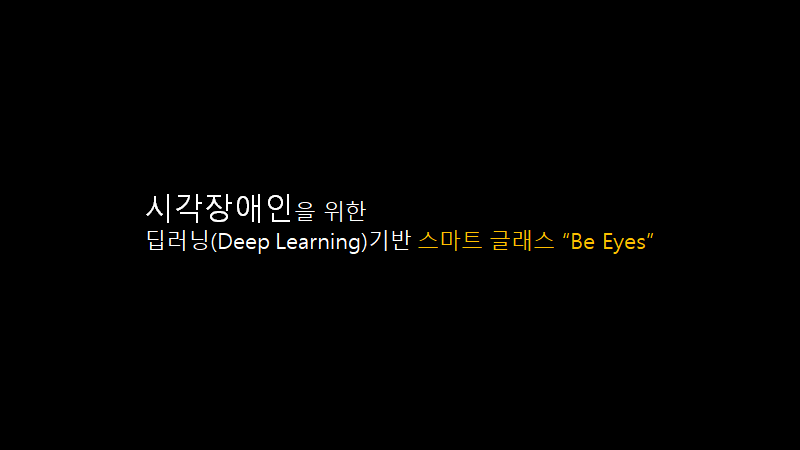
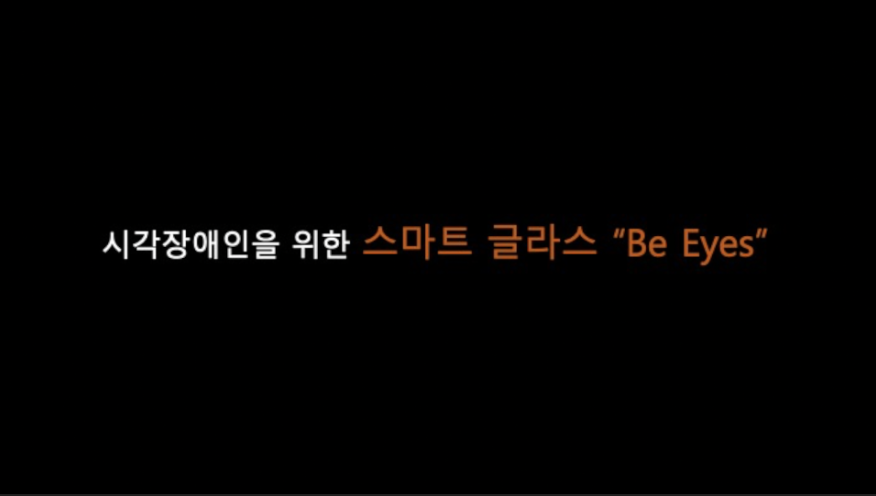
issue#53 시연 동영상 편집

Changed region(s): [[0.125, 0.4356, 0.875, 0.56], [0.0, 0.9956, 1.0, 1.0]]

diff --git a/README.md b/README.md
@@ -12,7 +12,7 @@
 
 ### 1. 프로젝트 소개
 
-**시각장애인**을 위한 **딥러닝** 기반 스마트 글래스  
+**시각장애인**을 위한 스마트 글래스  
 
 국가 통계 포털의 통계 자료에 의하면, 2017년도 기준 대한민국에 있는 시각장애인의 수는 약 25만명으로 전체 인구 수인 약 5147만명 중 약 0.5%에 해당한다. 또한 전체 장애 인구의 약 10%를 차지한다. 수 많은 시각 장애인의 편리한 일상생활을 위해 다양한 이용 수단 및 장비가 제공되고 있지만 비싼 가격과 낮은 효율성과 사용성으로 시각장애인의 일상은 불편함의 연속이다. 여전히 보행의 불편함 또는 의약품 오남용 등 시각장애인을 위한 현실은 미비하다.
 
@@ -45,7 +45,7 @@
 
 ### 3. 소개 영상
 
-[![video](./img/intro.png)](https://www.youtube.com/watch?v=kQOd4qONANw&t=3s)
+[![video](./img/intro.png)](https://www.youtube.com/watch?v=_QFApkQEyH4&feature=youtu.be)
 ###### 이미지를 클릭하시면 영상을 보실 수 있습니다.
 ***
 

diff --git a/index.md b/index.md
@@ -10,7 +10,7 @@
 
 ### 1. 프로젝트 소개
 
-**시각장애인**을 위한 **딥러닝** 기반 스마트 글래스  
+**시각장애인**을 위한 스마트 글래스  
 
 국가 통계 포털의 통계 자료에 의하면, 2017년도 기준 대한민국에 있는 시각장애인의 수는 약 25만명으로 전체 인구 수인 약 5147만명 중 약 0.5%에 해당한다. 또한 전체 장애 인구의 약 10%를 차지한다. 수 많은 시각 장애인의 편리한 일상생활을 위해 다양한 이용 수단 및 장비가 제공되고 있지만 비싼 가격과 낮은 효율성과 사용성으로 시각장애인의 일상은 불편함의 연속이다. 여전히 보행의 불편함 또는 의약품 오남용 등 시각장애인을 위한 현실은 미비하다.
 
@@ -39,7 +39,7 @@
 
 ### 3. 소개 영상
 
-[![video](./img/intro.png)](https://www.youtube.com/watch?v=kQOd4qONANw&t=3s)
+[![video](./img/intro.png)](https://www.youtube.com/watch?v=_QFApkQEyH4&feature=youtu.be)
 ###### 이미지를 클릭하시면 영상을 보실 수 있습니다.
 ***
 

diff --git a/doc/최종발표동영상/BeEyes_Video.md b/doc/최종발표동영상/BeEyes_Video.md
@@ -1,0 +1,2 @@
+[![video](./img/intro.png)](https://www.youtube.com/watch?v=_QFApkQEyH4&feature=youtu.be)
+###### 이미지를 클릭하시면 영상을 보실 수 있습니다.
